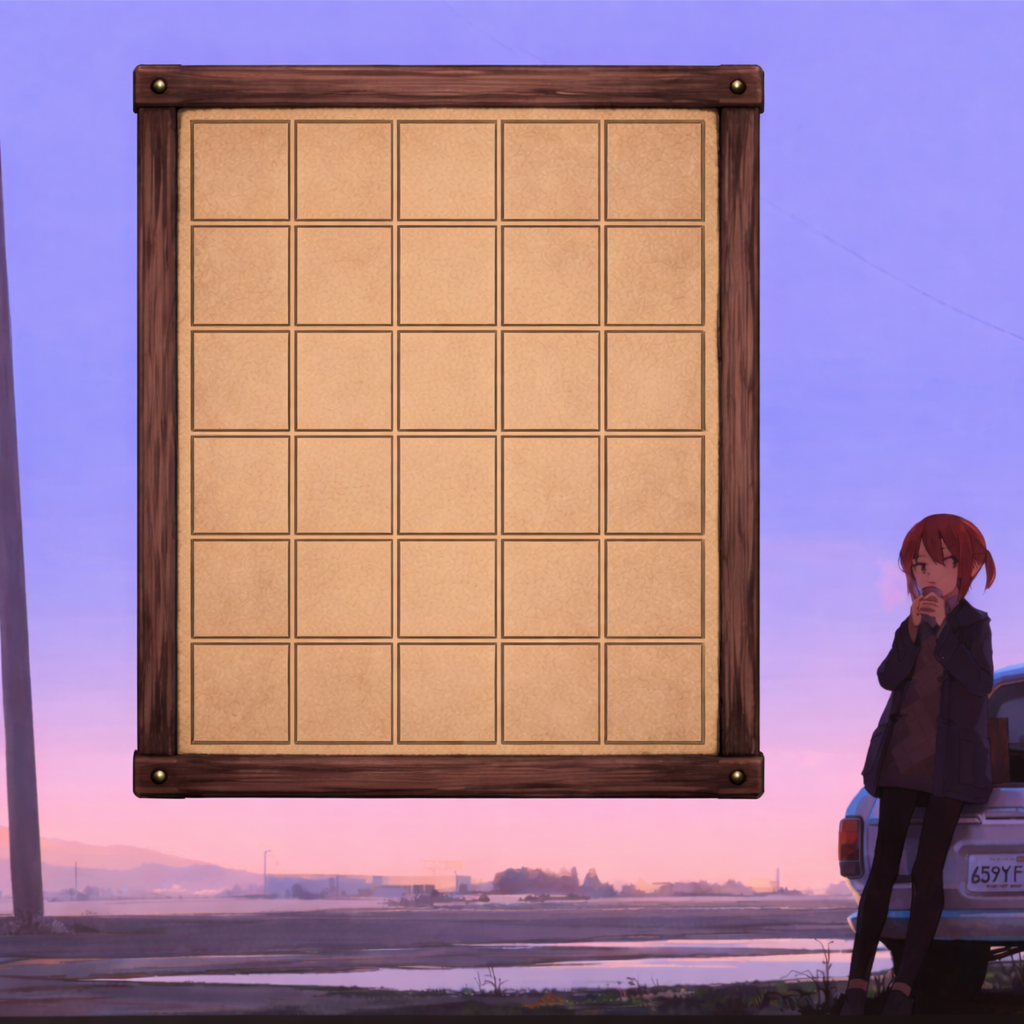
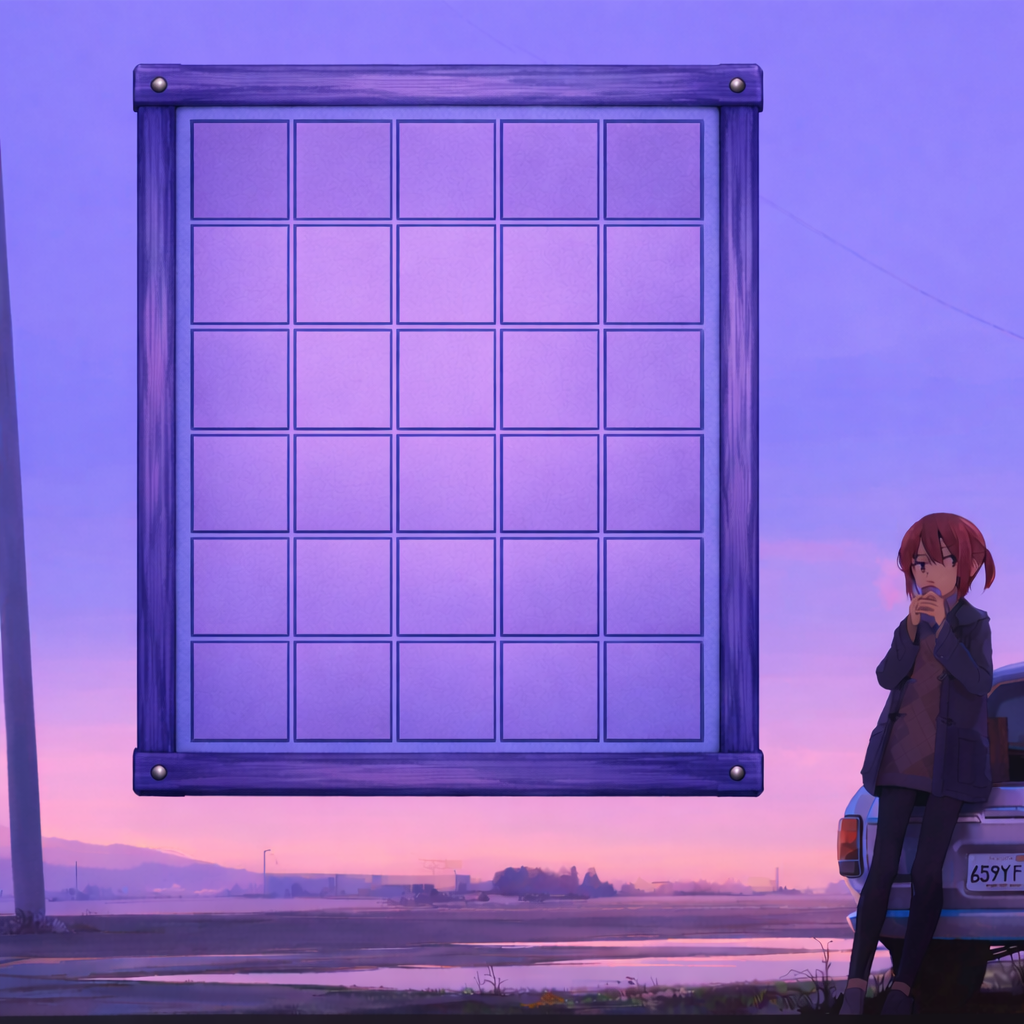
Add files via upload

diff --git a/Game.py b/Game.py
@@ -5,7 +5,7 @@ import time
 
 ## game UI n back end
 SCREEN_SIZE = (1024, 1024)
-LETTER_COLOR = (255, 255, 255)
+LETTER_COLOR = (250, 250, 255)
 
 START_X = 194
 START_Y = 124
@@ -14,9 +14,9 @@ OFFSET_Y = 104.4
 SIZE = 94
 
 # wordle feed back color
-WRONG = (65, 65, 67)
-WRONG_POS = (182, 161, 66)
-CORRECT = (83, 138, 78)
+WRONG = (179, 131, 233)
+WRONG_POS = (243, 180, 194)
+CORRECT = (113, 105, 255)
 
 # game
 class wordleGame:
@@ -27,6 +27,7 @@ class wordleGame:
         self.font = pygame.font.SysFont(None, 110)
 
         self.background = pygame.image.load("/home/izu/Izu/Projects/wordle-game/assets/background.png")
+        self.letter_texture = pygame.image.load("/home/izu/Izu/Projects/wordle-game/assets/texture.jpg").convert_alpha()
 
         self.solver = solver
         self.sol_visual = solver_visual
@@ -42,6 +43,7 @@ class wordleGame:
 
         self.running = True
         self.game_over = False
+        self.letter_cache = {}
         
         if self.solver:
             self.solver.reset()
@@ -108,16 +110,40 @@ class wordleGame:
                 else:
                     color = WRONG
 
-                pygame.draw.rect(self.screen, color, (dx, dy, SIZE, SIZE))
+                rect_surface = pygame.Surface((SIZE, SIZE), pygame.SRCALPHA)
+                rect_surface.fill((*color, 200))
+                self.screen.blit(rect_surface, (dx, dy))
+
 
                 char_x = dx + SIZE // 2
                 char_y = dy + SIZE // 2
 
-                text = self.font.render(word[ox].upper(), True, LETTER_COLOR)
-                text_rect = text.get_rect()
-                text_rect.center = (char_x, char_y)
-                self.screen.blit(text, text_rect)
-        
+                letter = word[ox].upper()
+
+                if letter not in self.letter_cache:
+                    # render white text mask
+                    mask = self.font.render(letter, True, LETTER_COLOR)
+
+                    # create transparent surface same size
+                    textured = pygame.Surface(mask.get_size(), pygame.SRCALPHA)
+
+                    # scale texture to letter size
+                    scaled_texture = pygame.transform.scale(
+                        self.letter_texture,
+                        mask.get_size()
+                    )
+
+                    textured.blit(scaled_texture, (0, 0))
+
+                    # apply mask
+                    textured.blit(mask, (0, 0), special_flags=pygame.BLEND_RGBA_MULT)
+
+                    self.letter_cache[letter] = textured
+
+                text_surface = self.letter_cache[letter]
+                text_rect = text_surface.get_rect(center=(char_x, char_y))
+                self.screen.blit(text_surface, text_rect)
+
         # temp
         oy = len(self.choices)
         
@@ -125,11 +151,26 @@ class wordleGame:
             char_x = int(START_X + OFFSET_X * ox + SIZE / 2)
             char_y = int(START_Y + OFFSET_Y * oy + SIZE / 2)
 
-            text = self.font.render(char.upper(), True, LETTER_COLOR)
-            text_rect = text.get_rect()
-            text_rect.center = (char_x, char_y)
+            letter = char.upper()
 
-            self.screen.blit(text, text_rect)
+            if letter not in self.letter_cache:
+                mask = self.font.render(letter, True, LETTER_COLOR)
+
+                textured = pygame.Surface(mask.get_size(), pygame.SRCALPHA)
+
+                scaled_texture = pygame.transform.scale(
+                    self.letter_texture,
+                    mask.get_size()
+                )
+
+                textured.blit(scaled_texture, (0, 0))
+                textured.blit(mask, (0, 0), special_flags=pygame.BLEND_RGBA_MULT)
+
+                self.letter_cache[letter] = textured
+
+            text_surface = self.letter_cache[letter]
+            text_rect = text_surface.get_rect(center=(char_x, char_y))
+            self.screen.blit(text_surface, text_rect)
 
         # update screen
         pygame.display.update()
@@ -153,7 +194,11 @@ class wordleGame:
             self.render()
 
             if self.game_over:
-                print("Won")
+                print("Won (or not, im lazy)")
+                
+                if not self.sol_speed:
+                    pygame.time.delay(15)
+
                 self.reset()
 
             if not self.sol_speed:
@@ -165,7 +210,7 @@ SOL_SPEED = "solver_speed"
 
 if __name__ == "__main__":
     solver = None
-    MODE = HUMAN
+    MODE = SOL_SPEED
 
     if MODE != HUMAN:
         with open("/home/izu/Izu/Projects/wordle-game/assets/answer-nytimes.txt") as f:

diff --git a/Logic.py b/Logic.py
@@ -13,12 +13,6 @@ with open("/home/izu/Izu/Projects/wordle-game/assets/words.txt") as file:
 def choose_word():
     return random.choice(ALL_ANS)
 
-def validate_choice(choice):
-    if len(choice) == 5 and choice.lower() in ALL_WORDS:
-        return True
-    
-    return False
-
 def check_char_cnt(answer): 
     cnt = []
     cnt.append([answer[0], 1])
@@ -43,6 +37,12 @@ def find_cnt(cnt, char):
             return i
         
     return None
+
+def validate_choice(choice):
+    if len(choice) == 5 and choice.lower() in ALL_WORDS:
+        return True
+    
+    return False
 
 def validate_ans(choice, answer):
     cnt = check_char_cnt(answer)
@@ -78,7 +78,7 @@ def is_won(detail):
             changed = True
             break
 
-    return changed
+    return not changed
 
 # debug
 if __name__ == "__main__":

diff --git a/main.py b/main.py
@@ -1,8 +1,25 @@
-import Logic
 import Game
+import Logic
 import Solver
 
+HUMAN = "human"
+SOL_VIS = "solver_visual"
+SOL_SPEED = "solver_speed"
 
 if __name__ == "__main__":
-    mode = input()
-    
+    solver = None
+    MODE = SOL_SPEED
+
+    if MODE != HUMAN:
+        with open("/home/izu/Izu/Projects/wordle-game/assets/answer-nytimes.txt") as f:
+            words = [w.strip().lower() for w in f if len(w.strip()) == 5]
+
+        solver = Solver.WordleSolver(words, Logic.validate_ans)
+
+    game = Game.wordleGame(
+        solver = solver,
+        solver_visual = (MODE != HUMAN),
+        solver_speed = (MODE == SOL_SPEED)
+    )
+
+    game.run()

diff --git a/README.md b/README.md
@@ -1,0 +1,127 @@
+# Wordle Twilight – Pygame + AI Solver
+
+A custom Wordle clone built with Pygame, featuring:
+
+- Custom twilight-themed UI
+- Entropy-based Wordle solver
+- Visual AI mode
+- Speed-run solver mode
+
+---
+
+## This project separates:
+
+- Logic.py → Wordle rules
+- Solver.py → AI engine (Forked from previous project)
+- Game.py → Visualization (Pygame frontend)
+- main.py → Mode selection
+
+---
+
+## Features
+
+1. Human Mode:
+    - Classic 6-attempt Wordle gameplay
+    - Full keyboard input
+    - Duplicate-letter handling
+    - Custom purple/pink twilight theme
+
+2. Solver Visual Mode
+    - AI plays automatically
+    - Displays guesses in real time
+    - Uses hybrid strategy:
+    - Probing (information gain)
+    - Entropy optimization
+
+3. Solver Speed Mode
+    - Runs solver at maximum speed
+    - No frame limiting
+    - Designed for benchmarking solver performance
+
+---
+
+## Solver Strategy Overview
+
+The AI uses a hybrid approach:
+
+1. Probing Phase
+    - Maximizes information when many candidates remain
+    - Avoids repeated letters early
+    - Reduces ambiguity
+
+2. Entropy Phase
+    - Activated when candidate pool is small
+    - Maximizes expected information gain
+    - Finishes efficiently
+
+This keeps:
+- High win rate (~95–97%)
+- Low average turn count (~3.6 -> 3.8)
+- Strong late-game stability
+
+---
+
+## Project Structure
+```
+wordle/
+├── main.py        # Entry point & mode selection
+├── Game.py        # Pygame visualization
+├── Logic.py       # Wordle rules + validation
+├── Solver.py      # AI engine + benchmark
+├── assets/
+│   ├── background.png
+│   ├── answer-nytimes.txt
+│   └── words.txt
+```
+
+---
+
+## Running the Game
+
+Edit main.py:
+
+```
+MODE = HUMAN        # Play manually
+MODE = SOL_VIS      # Watch AI solve visually
+MODE = SOL_SPEED    # Run solver at max speed
+```
+
+Then:
+```
+python main.py
+```
+
+---
+
+## Benchmarking the Solver
+
+Run directly:
+```
+python Solver.py
+```
+
+Outputs:
+```
+Games: 500
+Fails: 14
+Win rate: 0.972
+Avg game: 380 games/sec
+Avg turns: 3.82
+Time: 1.31 seconds
+```
+
+---
+
+## Platform Notes
+
+Developed and tested on:
+- Linux (Wayland)
+- Python + Pygame
+No external dependencies beyond Pygame.
+
+---
+
+## License
+
+Personal project.
+Feel free to fork and experiment.
